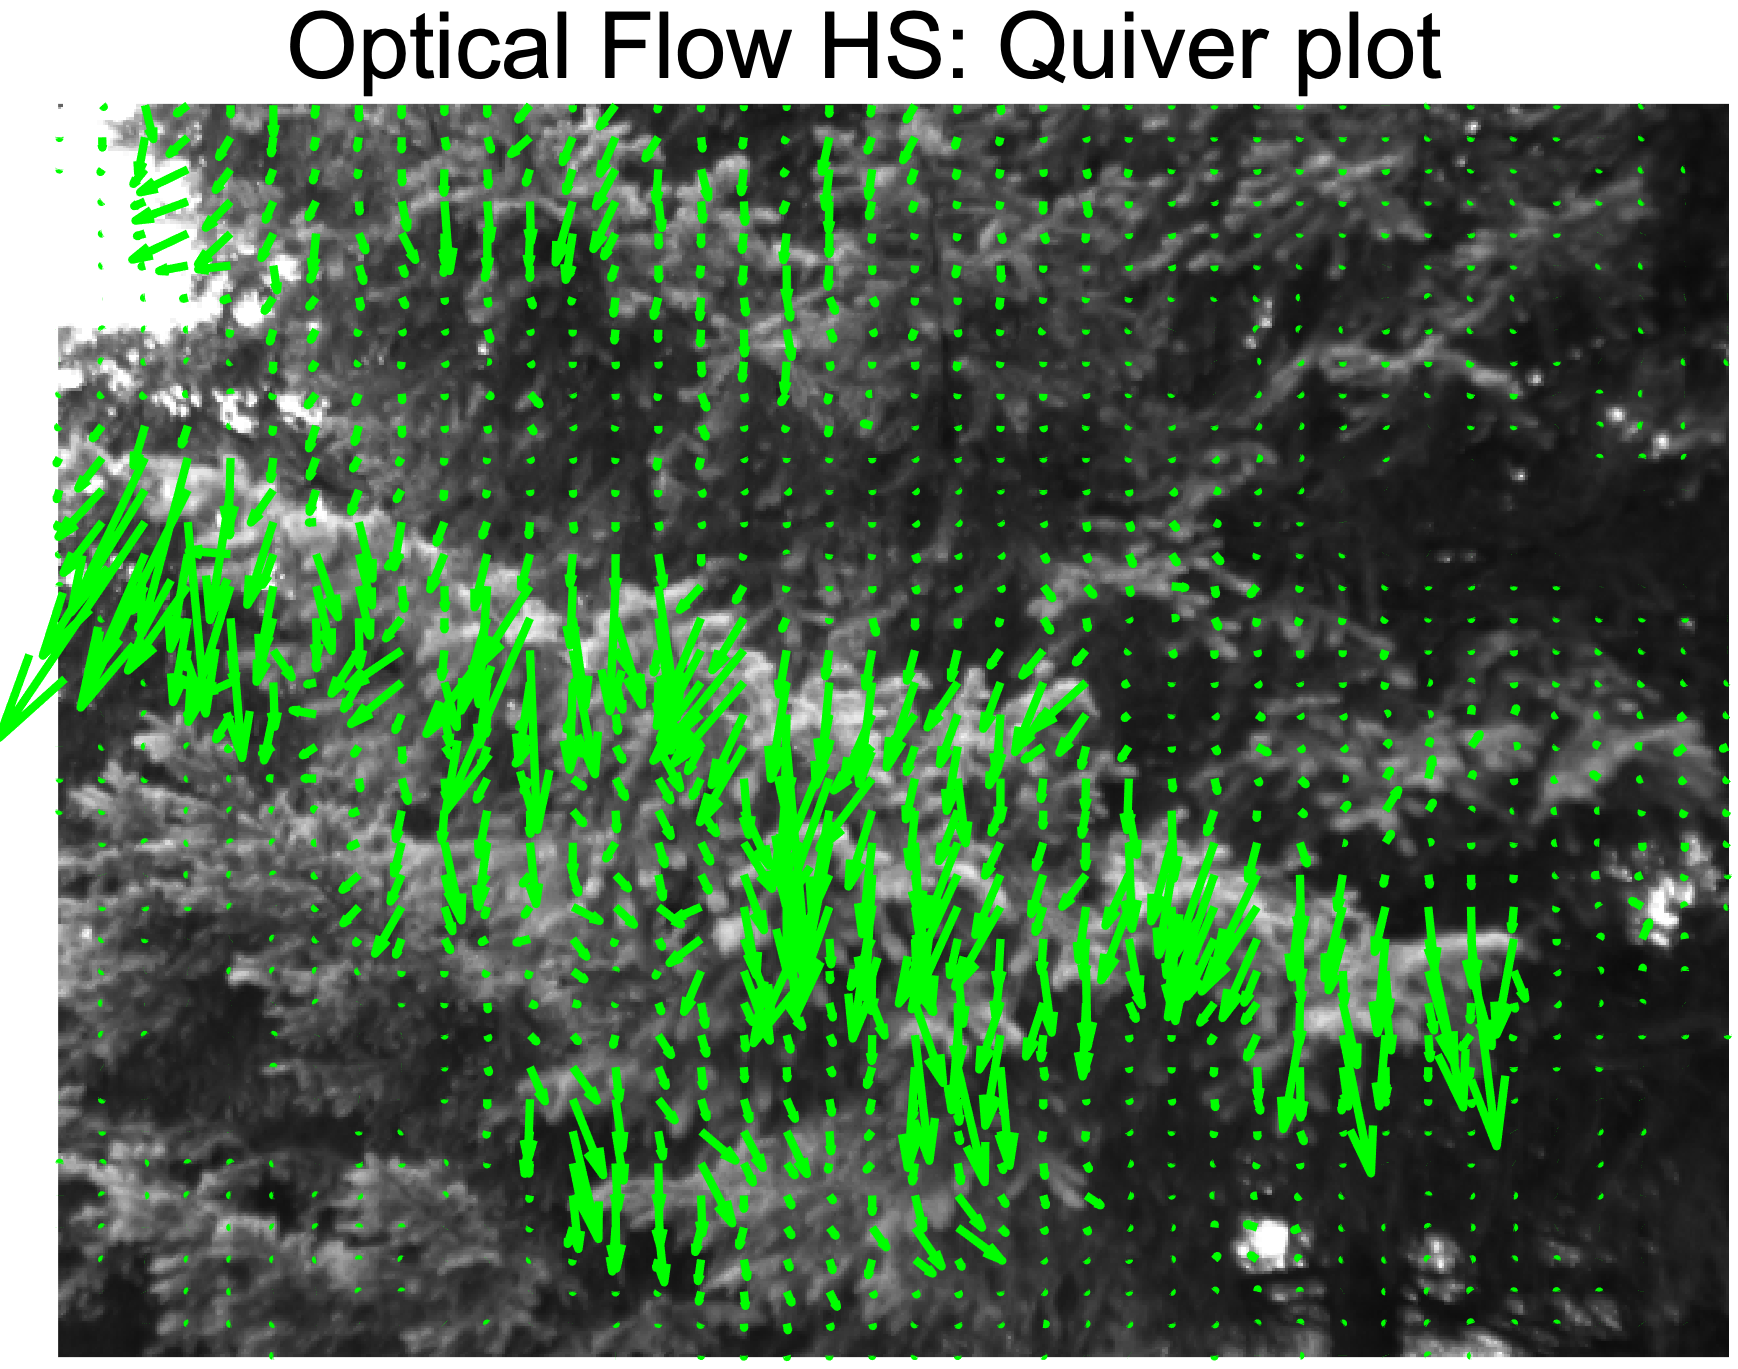
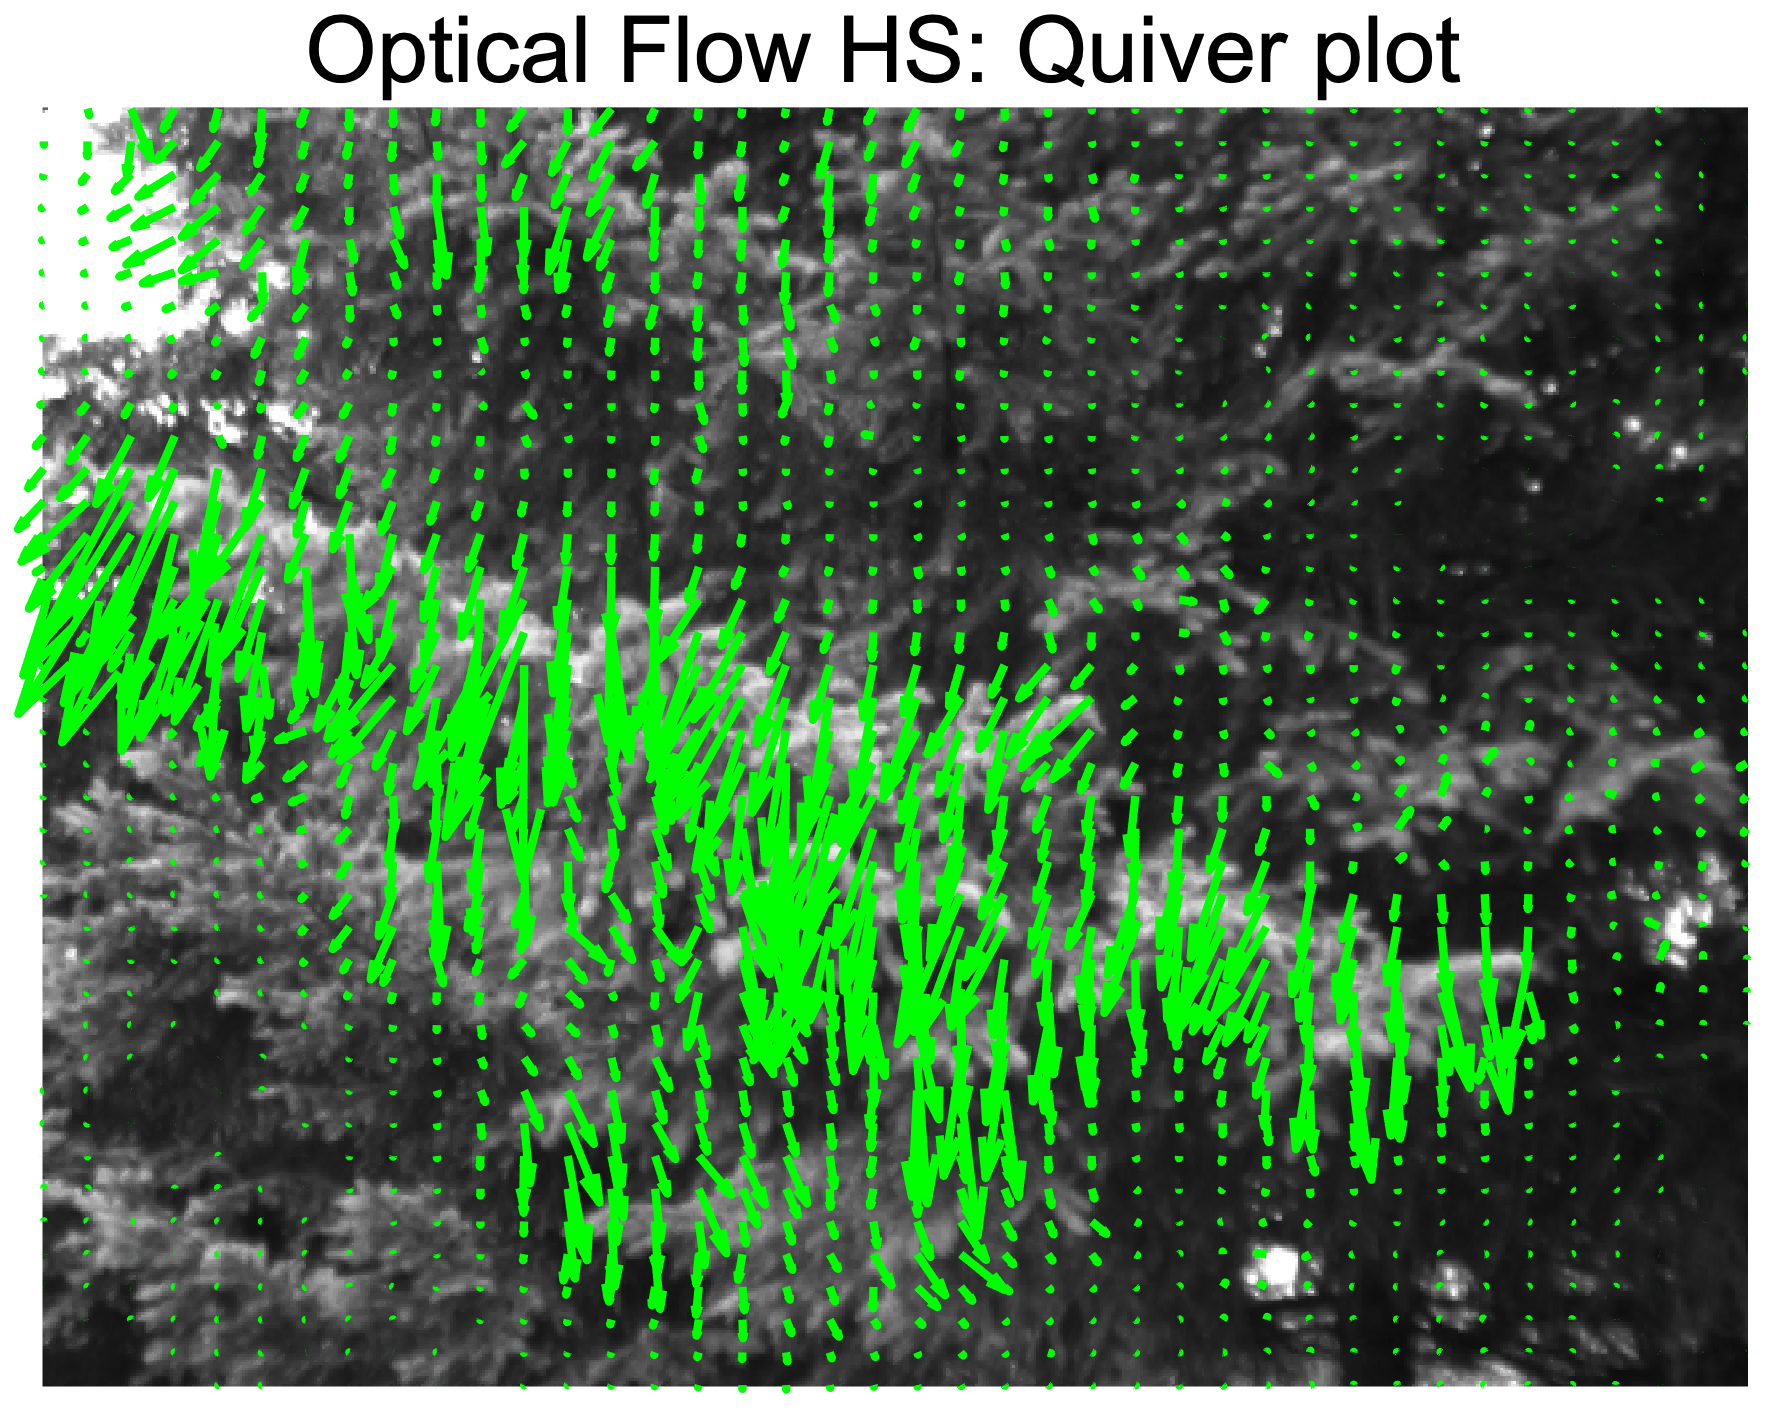
test
1. add new figures.
2. change sth.

diff --git a/mini-project/optical_flow/script.m b/mini-project/optical_flow/script.m
@@ -8,7 +8,7 @@ baseDir = '../../data/optical_flow_data/';
 filename = {'Army','Backyard','Basketball','Dumptruck','Evergreen','Grove','Mequon', ...
             'Schefflera','Teddy','Urban','Wooden','Yosemite'};
 
-fileid = 12;
+fileid = 11;
 
 dir = strcat(baseDir, filename{fileid});
 % load database
@@ -25,33 +25,33 @@ im2 = imPreprocessing(im2);
 save = 1;
 
 % flow
-tic
-[flow_u, flow_v] = denseflowPyrLK(im1, im2, 0);
-time1 = toc;
+% tic
+% [flow_u, flow_v] = denseflowPyrLK(im1, im2, 0);
+% time1 = toc;
 
-showFlowQuiver(im1, flow_u, flow_v);
-title('Optical Flow LK: Quiver plot');
-set(gca,'FontName','Arial','FontSize',20);
-if save == true
-    fig=gcf;                                     % your figure
-    fig.PaperPositionMode='auto';
-%     fig.PaperSize = [50 50];
-%     fig.PaperUnits = 'centimeters';
-    fig.PaperUnits = 'centimeters';
-    fig.PaperPosition = [0 0 20 20];
-    print(strcat('./output/',filename{fileid},'_LK_quiver.png'),'-dpng','-r300');
-end
-
-showFlowImage(flow_u, flow_v);
-title('Optical Flow LK: Image plot');
-set(gca,'FontName','Arial','FontSize',20);
-if save == true
-    fig=gcf;                                     % your figure
+% showFlowQuiver(im1, flow_u, flow_v);
+% title('Optical Flow LK: Quiver plot');
+% set(gca,'FontName','Arial','FontSize',20);
+% if save == true
+%     fig=gcf;                                     % your figure
 %     fig.PaperPositionMode='auto';
-    fig.PaperUnits = 'centimeters';
-    fig.PaperPosition = [0 0 20 20];
-    print(strcat('./output/',filename{fileid},'_LK_rgb.png'),'-dpng','-r300');
-end
+% %     fig.PaperSize = [50 50];
+% %     fig.PaperUnits = 'centimeters';
+%     fig.PaperUnits = 'centimeters';
+%     fig.PaperPosition = [0 0 20 20];
+%     print(strcat('./output/',filename{fileid},'_LK_quiver.png'),'-dpng','-r300');
+% end
+% 
+% showFlowImage(flow_u, flow_v);
+% title('Optical Flow LK: Image plot');
+% set(gca,'FontName','Arial','FontSize',20);
+% if save == true
+%     fig=gcf;                                     % your figure
+% %     fig.PaperPositionMode='auto';
+%     fig.PaperUnits = 'centimeters';
+%     fig.PaperPosition = [0 0 20 20];
+%     print(strcat('./output/',filename{fileid},'_LK_rgb.png'),'-dpng','-r300');
+% end
 
 tic
 [flow_u, flow_v] = denseflowPyrHS(im1, im2,0);

diff --git a/assignment_3/gender_labeling.m b/assignment_3/gender_labeling.m
@@ -4,7 +4,7 @@ addpath(genpath('./'));
 
 d = [179 174 182 162 175 165]; % heights (data)
 mu = [181, 165]; % means of two classes
-beta = 1000; % weight of the prior term
+beta = 100; % weight of the prior term
 w_s = (d(:)-mu(1)).^2; % source weight
 w_t = (d(:)-mu(2)).^2; % sink weights
 N = numel(d); % number of graph nodes
